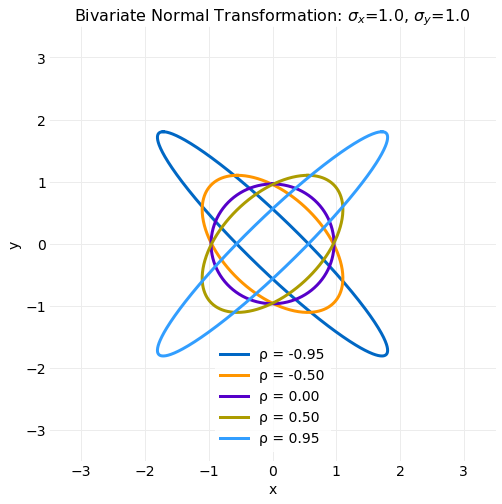
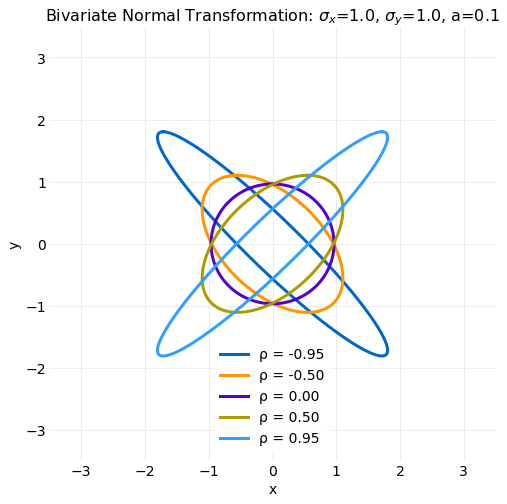
plot updates

diff --git a/hydrogen_notebooks/distributions/bivariate_normal_distribution.py b/hydrogen_notebooks/distributions/bivariate_normal_distribution.py
@@ -254,7 +254,7 @@ axis.set_xlim([-3.5*σ1, 3.5*σ1])
 axis.set_ylim([-3.5*σ2, 3.5*σ2])
 title = f"Bivariate Normal Transformation: " + \
          r"$σ_x$=" + f"{format(σ1, '2.1f')}, " + r"$σ_y$=" + \
-         f"{format(σ2, '2.1f')}"
+         f"{format(σ2, '2.1f')}, a={format(contour_value, '2.1f')}"
 axis.set_title(title)
 
 for i in range(len(ρ)):
